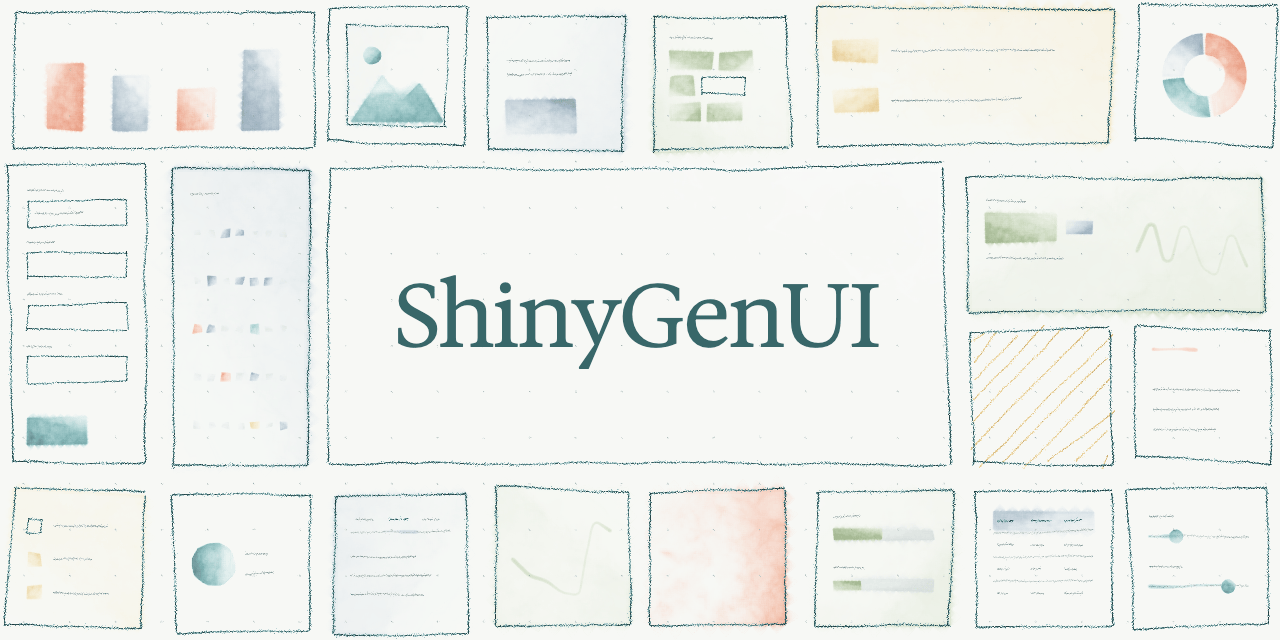
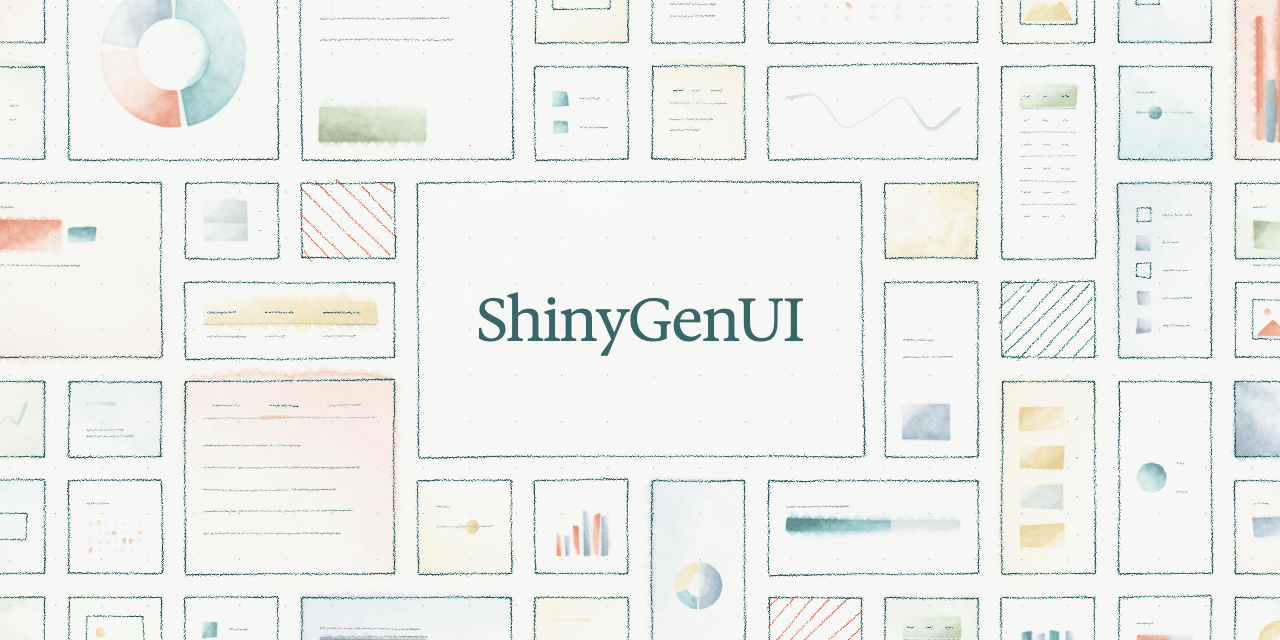
Rebuild the social preview as an edgeless, aligned grid (#5)
* Draw the form button only when it clears the last field

At small card sizes the input component drew its submit button over its
last field. The button is now skipped when there is no room below the
fields. Also updates the seed in the header comment to match the README.

Claude-Session: https://claude.ai/code/session_01ExuxFAABtcVXhLGMKJHn3z

* Rebuild the social preview as an edgeless, aligned grid

Same construction as the hero: a 12 x 7 grid laid out over an area wider
and taller than the 1280 x 640 canvas so cards run off all four edges, no
tilt, offset or corner jitter, and a faint wiggle. The wordmark sits in a
4 x 3 golden-rectangle panel that stays inside GitHub's 40px safe margin,
with the wordmark at 22% of the panel height.

Claude-Session: https://claude.ai/code/session_01ExuxFAABtcVXhLGMKJHn3z

* Regenerate the hero with the form button fix

Claude-Session: https://claude.ai/code/session_01ExuxFAABtcVXhLGMKJHn3z

* Describe the shared example construction as a list

Both examples are now built the same way, so the README describes the
approach once, as bullets, then gives each example's size and grid.

Claude-Session: https://claude.ai/code/session_01ExuxFAABtcVXhLGMKJHn3z

---------

Changed region(s): [[0.0, 0.0, 1.0, 1.0], [0.0312, 0.0, 0.0625, 0.0625], [0.0938, 0.4062, 0.125, 0.4375]]

diff --git a/examples/shinygenui-social-preview/index.html b/examples/shinygenui-social-preview/index.html
@@ -44,13 +44,28 @@
 <body>
   <div id="wordmark">ShinyGenUI</div>
   <script>
-    // 1280 x 640 GitHub repository social preview. Eight columns by four rows
-    // of cards run to the edges; the wordmark sits in a lifted 4 x 2 panel in
-    // the centre, so it stays more than 40px clear of any edge and survives
-    // cropping to 1.91:1 or square previews.
+    // 1280 x 640 GitHub repository social preview. The bento grid is laid out
+    // over an area wider and taller than the canvas, so cards run off all
+    // four edges and the composition reads as a window onto a larger sheet.
+    // The wordmark sits in a lifted 4 x 3 panel in the centre that is a
+    // golden rectangle: the three rows it spans are sized to make it so. The
+    // panel stays well inside the 40px safe margin GitHub recommends, so it
+    // survives cropping to 1.91:1 or square previews.
+    const PHI = (1 + Math.sqrt(5)) / 2;
     const W = 1280;
     const H = 640;
-    const TITLE = { col: 2, row: 1, spanC: 4, spanR: 2, kind: "panel" };
+    const OVER = 60;      // Overflow past the left and right edges.
+    const COLS = 12;
+    const ROWS = 7;
+    const GUTTER = 24;
+    const CELL = (W + 2 * OVER) / COLS;
+    const TITLE = { col: 4, row: 2, spanC: 4, spanR: 3, kind: "panel" };
+
+    // Row heights in canvas units: square cells, except the title rows.
+    const TITLE_ROW = ((TITLE.spanC * CELL - GUTTER) / PHI + GUTTER) / TITLE.spanR;
+    const ROW_HEIGHTS = Array.from({ length: ROWS }, (_, r) =>
+      r >= TITLE.row && r < TITLE.row + TITLE.spanR ? TITLE_ROW : CELL);
+    const LAYOUT_H = ROW_HEIGHTS.reduce((a, b) => a + b, 0);
 
     // Every component once before any repeats. Washes and hatches are accents:
     // they only go on 1 x 1 cards so no large block is left empty.
@@ -102,19 +117,29 @@
       translate(-width / 2, -height / 2);
 
       angleMode(DEGREES);
-      randomSeed(7);
-      noiseSeed(7);
+      randomSeed(1920);
+      noiseSeed(1920);
       brush.scaleBrushes(2);
 
+      // Cards are not tilted, shifted or corner-jittered: at this many cards,
+      // any misalignment between neighbors reads as noise rather than charm.
+      // A faint wiggle keeps the pencil grain, and the watercolor texture
+      // does the rest.
       const opts = {
-        cols: 8,
-        rows: 4,
-        gutter: 24,
+        x: -OVER,
+        y: -(LAYOUT_H - H) / 2,
+        width: W + 2 * OVER,
+        height: LAYOUT_H,
+        cols: COLS,
+        rows: ROW_HEIGHTS,
+        gutter: GUTTER,
         reserve: [TITLE],
+        wiggle: 0.4,
+        jitter: 0,
+        offset: 0,
+        tilt: 0,
       };
 
-      // Step through the pipeline so the title card can be kept level and
-      // kinds and colors can be spread across the grid before assign().
       skeleton.dots(opts);
       const cells = skeleton.layout(opts);
       const title = cells.find((c) => c.reserved);
@@ -122,7 +147,7 @@
       vary(cells, skeleton.defaults.palette);
       skeleton.assign(cells, opts);
 
-      brush.wiggle(1.2);
+      brush.wiggle(opts.wiggle);
       cells.forEach((cell) => skeleton.drawCard(cell, opts));
       brush.noField();
 
@@ -132,7 +157,7 @@
       el.style.top = title.y - title.h / 2 + "px";
       el.style.width = title.w + "px";
       el.style.height = title.h + "px";
-      el.style.fontSize = Math.round(title.h * 0.3) + "px";
+      el.style.fontSize = Math.round(title.h * 0.22) + "px";
 
       document.fonts.ready.then(() => {
         document.body.dataset.rendered = "true";

diff --git a/src/p5.brush.skeleton.js b/src/p5.brush.skeleton.js
@@ -13,7 +13,7 @@
  *     createCanvas(1106, 1280, WEBGL);
  *     background("#f7f8f5");
  *     translate(-width / 2, -height / 2);
- *     randomSeed(1);
+ *     randomSeed(42);
  *     brush.scaleBrushes(2.2);
  *     skeleton.render({ cols: 7, rows: 9 });
  *   }
@@ -371,8 +371,11 @@
       frame(left + cw / 2, y0 + 28, cw, 26, angle, opts, opts.ink, 0.8);
       if (i === 0) lines(left + 8 + cw * 0.3, y0 + 28, cw * 0.6, 10, opts, 1);
     }
-    const bw = Math.min(cw * 0.6, 80);
-    pill(left + bw / 2, top + ch - 14, bw, 28, angle, color, 185);
+    // Submit button, only when it clears the last field.
+    if (ch - (n * pitch - 8) >= 34) {
+      const bw = Math.min(cw * 0.6, 80);
+      pill(left + bw / 2, top + ch - 14, bw, 28, angle, color, 185);
+    }
   };
 
   /** Tab bar with one active tab, then body copy. */

diff --git a/README.md b/README.md
@@ -19,7 +19,7 @@ toggles and buttons.
     translate(-width / 2, -height / 2);  // Work in top-left coordinates
 
     angleMode(DEGREES);
-    randomSeed(73021);                   // Reproducible output
+    randomSeed(42);                      // Reproducible output
     brush.scaleBrushes(2.2);             // Scale brushes to the canvas
 
     skeleton.render({ cols: 7, rows: 9 });
@@ -33,34 +33,37 @@ loop is needed.
 
 ## Examples
 
+Both examples are built the same way:
+
+- **Edgeless.** The bento grid is laid out over an area wider and taller than
+  the canvas, so cards run off all four edges and the image reads as a window
+  onto a larger sheet rather than a framed grid.
+- **Golden wordmark panel.** The wordmark sits in a lifted 4 x 3 panel in the
+  centre that is a golden rectangle: `rows` is given as an array of heights,
+  and the three rows the panel spans are sized to make it so.
+- **Spread components and colors.** Instead of sampling at random, each
+  example pins `kind` and `color` on every cell before `assign()` so that no
+  card repeats the component or color of a card it shares an edge with, every
+  component appears once before any repeats, and plain washes and hatches only
+  land on 1 x 1 cards.
+- **Aligned cards.** `tilt`, `offset` and `jitter` are zero and `wiggle` is
+  faint: with this many cards, any misalignment between neighbors reads as
+  noise, and the pencil and watercolor texture carry the hand-drawn feel on
+  their own.
+
 [`examples/shinygenui-social-preview`](examples/shinygenui-social-preview/index.html)
-is a 1280 x 640 GitHub repository social preview. Eight columns by four rows
-of cards run to the edges, and the ShinyGenUI wordmark sits in a lifted 4 x 2
-card in the centre, well inside the 40px safe margin GitHub recommends so it
-survives cropping to other aspect ratios. Instead of sampling components at
-random, it pins `kind` and `color` on each cell before `assign()` so that no
-card repeats the component or color of a card it shares an edge with, every
-component appears once before any repeats, and plain washes and hatches only
-land on 1 x 1 cards.
+is a 1280 x 640 GitHub repository social preview on a 12 x 7 grid.
+The wordmark panel stays well inside the 40px safe margin GitHub recommends,
+so it survives cropping to other aspect ratios.
 
 ![ShinyGenUI social preview](examples/shinygenui-social-preview/social-preview.png)
-
-Open it in a browser, or render it to PNG with headless Chrome:
 
 ```sh
 tools/render.sh examples/shinygenui-social-preview/index.html social-preview.png 1280 640
 ```
 
 [`examples/shinygenui-hero`](examples/shinygenui-hero/index.html) is a
-1920 x 1187 blog post hero, a golden rectangle, built the same way with a
-14 x 9 grid laid out over an area wider and taller than the canvas. Cards run
-off all four edges, so the image reads as a window onto a larger sheet rather
-than a framed grid. The wordmark panel is a golden rectangle too: `rows` is
-given as an array of heights, and the three rows the panel spans are sized to
-make it so. Unlike the social preview it sets `tilt`, `offset` and `jitter`
-to zero and uses a faint `wiggle`: with this many cards, any misalignment
-between neighbors reads as noise, and the pencil and watercolor texture carry
-the hand-drawn feel on their own.
+1920 x 1187 blog post hero, itself a golden rectangle, on a 14 x 9 grid.
 
 ![ShinyGenUI hero](examples/shinygenui-hero/hero.png)
 
@@ -72,9 +75,8 @@ tools/render.sh examples/shinygenui-hero/index.html hero.png 1920 1187
 
 ### `skeleton.render(options) -> cells`
 
-Draws the dot grid, lays out the bento grid, assigns a component to every
-card and draws it. Returns the cells so you can position other content over
-them.
+Draws the dot grid, lays out the bento grid, assigns a component to every card
+and draws it. Returns the cells so you can position other content over them.
 
 ### The pipeline, step by step
 
